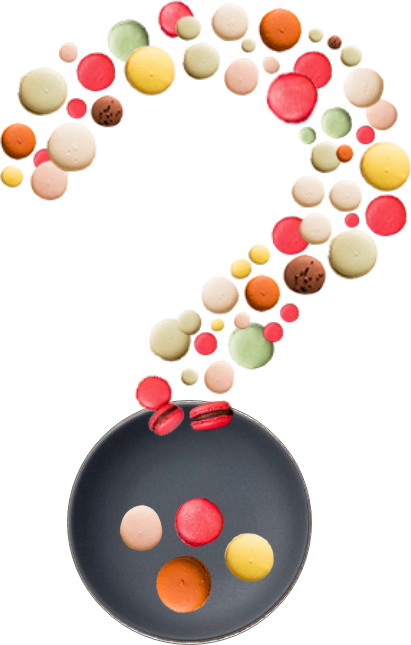
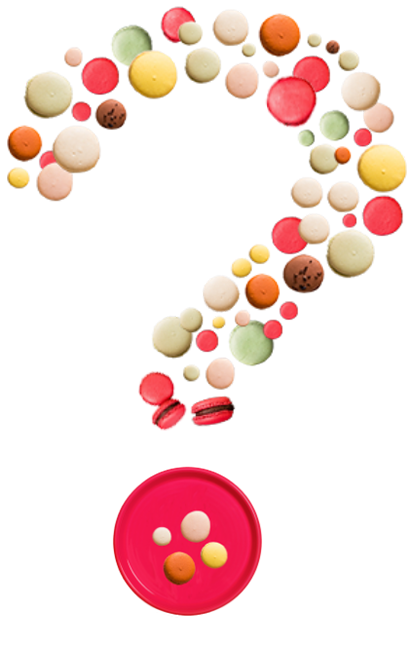
change question mark image

Changed region(s): [[0.0, 0.0, 1.0, 1.0]]

diff --git a/wp/wp-content/themes/dishlistv2/style.css b/wp/wp-content/themes/dishlistv2/style.css
@@ -1275,11 +1275,11 @@ FAQ/Feature Single page styles
 .faq section.faq-popular-questions {
   display: grid;
   grid-template-columns: 1fr;
-  grid-template-rows: 340px auto;
+  grid-template-rows: 180px auto;
   background-image: url("assets/images/faq_question_mark.png");
   background-position: center top;
   background-repeat: no-repeat;
-  background-size: 220px;
+  background-size: 120px;
   padding: 30px;
 }
 .faq section.faq-popular-questions > h2 {
@@ -2164,6 +2164,7 @@ Add Contact Us media queries
     grid-template-columns: 1fr 1fr 1fr;
     grid-template-rows: auto;
     background-position: right center;
+    background-size: 220px;
   }
   .faq section.faq-popular-questions > h2 {
     grid-column: 1/4;

diff --git a/wp/wp-content/themes/dishlistv2/assets/sass/pages/_faq-page.scss b/wp/wp-content/themes/dishlistv2/assets/sass/pages/_faq-page.scss
@@ -44,11 +44,11 @@ FAQ/Feature Single page styles
         &.faq-popular-questions {
             display: grid;
             grid-template-columns: 1fr;
-            grid-template-rows: 340px auto;
+            grid-template-rows: 180px auto;
             background-image: url("assets/images/faq_question_mark.png");
             background-position: center top;
             background-repeat: no-repeat;
-            background-size: 220px;
+            background-size: 120px;
             padding: 30px;
 
             >h2 {

diff --git a/wp/wp-content/themes/dishlistv2/assets/sass/media_queries/_large_devices.scss b/wp/wp-content/themes/dishlistv2/assets/sass/media_queries/_large_devices.scss
@@ -132,6 +132,7 @@ Add Contact Us media queries
                 grid-template-columns: 1fr 1fr 1fr;
                 grid-template-rows: auto;
                 background-position: right center;
+                background-size: 220px;
 
                 >h2 {
                     grid-column: 1/4;
